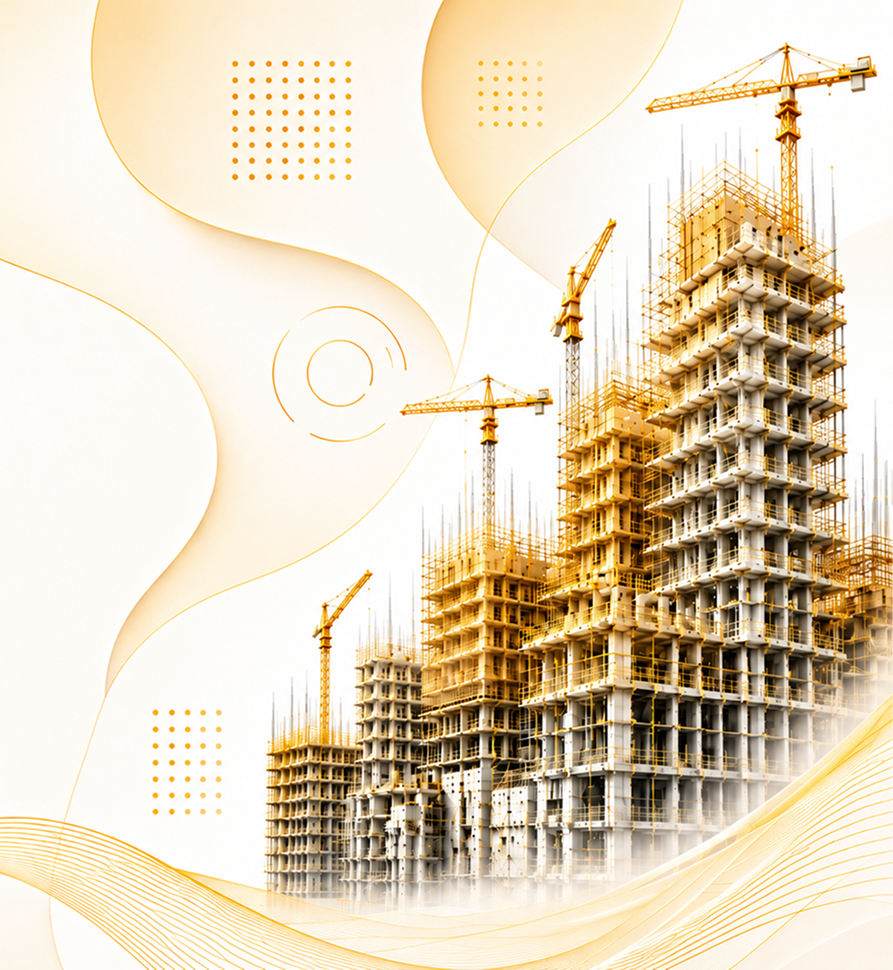
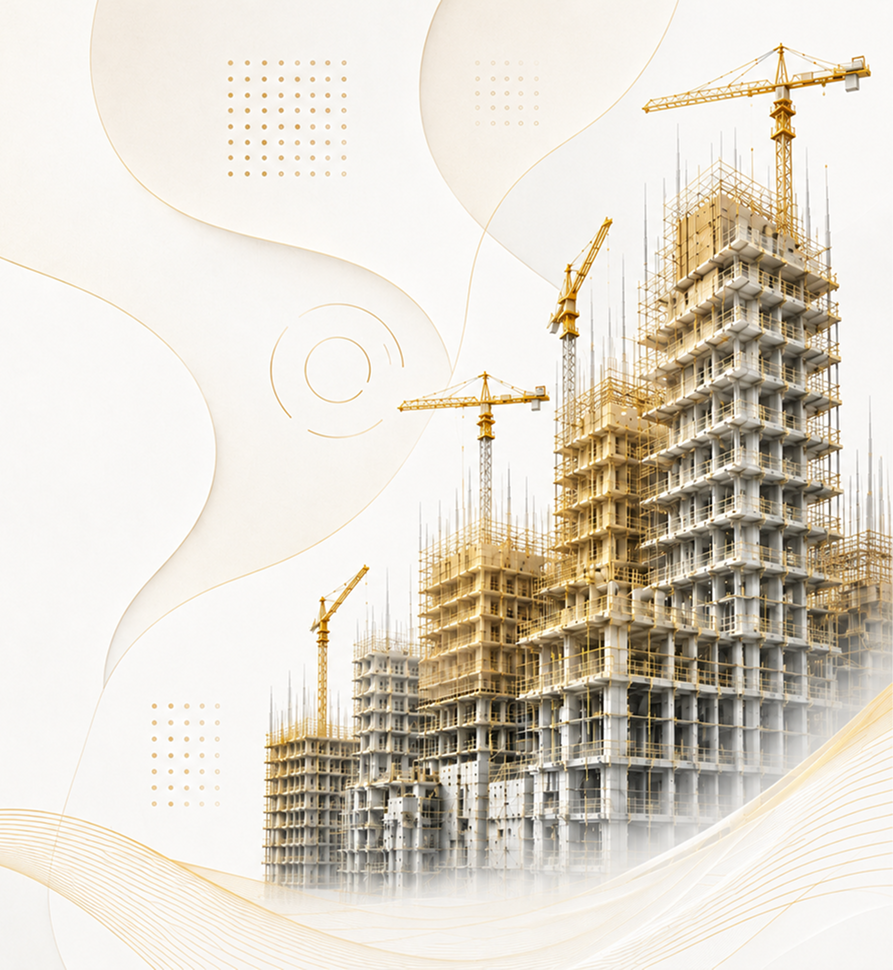
feat(auth): refine themed layout and add auth translations

diff --git a/src/components/layout/auth-shell/auth-shell.module.scss b/src/components/layout/auth-shell/auth-shell.module.scss
@@ -99,7 +99,7 @@
     right: 0;
     bottom: 0;
     height: 100%;
-    border-left: 2px solid var(--accent);
+    border-left: 1px solid var(--border);
   }
 
   .background {
@@ -123,28 +123,52 @@
     opacity: 0;
   }
 
-  .productName,
-  .preferences {
+  .visualFooter {
     position: relative;
     z-index: 1;
+    display: flex;
+    width: 100%;
+    flex-wrap: wrap;
+    gap: space(4);
+    align-items: flex-end;
+    justify-content: space-between;
+    margin-top: auto;
   }
 
   .productName {
-    margin: 0;
-    color: var(--foreground);
-    font-size: clamp(rem(56), 5vw, rem(80));
-    font-weight: 600;
-    letter-spacing: var(--tracking-tight);
     align-self: flex-start;
+    padding: space(4);
+    background: color-mix(in srgb, var(--background) 10%, transparent);
+    backdrop-filter: blur(rem(6));
+    border: 1px solid var(--border);
+    border-radius: space(2);
+
+    h1 {
+      font-size: clamp(rem(30), 5vw, rem(32));
+      font-weight: 700;
+      text-transform: uppercase;
+      color: var(--primary);
+      letter-spacing: var(--tracking-tight);
+      line-height: 1;
+    }
+
+    h2 {
+      font-size: clamp(rem(30), 5vw, rem(32));
+      text-transform: uppercase;
+      font-weight: 600;
+      line-height: 1;
+    }
   }
+
 
   .preferences {
     align-self: flex-end;
-    justify-self: flex-end;
+    z-index: 1;
   }
 }
 
 :global(.dark) {
+
   .backgroundLight {
     opacity: 0;
   }

diff --git a/src/components/layout/auth-shell/index.tsx b/src/components/layout/auth-shell/index.tsx
@@ -13,8 +13,11 @@ interface AuthShellProps {
 }
 
 const AuthShell = async ({ children }: AuthShellProps) => {
-  const t = await getTranslations("common");
-  const brand = t("brand");
+  const [tCommon, tAuth] = await Promise.all([
+    getTranslations("common"),
+    getTranslations("auth.shell"),
+  ]);
+  const brand = tCommon("brand");
 
   return (
     <main className={styles.root}>
@@ -32,7 +35,10 @@ const AuthShell = async ({ children }: AuthShellProps) => {
           <img src="/auth/background-light.png" alt="" className={cn(styles.background, styles.backgroundLight)} />
           <img src="/auth/background-dark.png" alt="" className={cn(styles.background, styles.backgroundDark)} />
         </div>
-        <h1 className={styles.productName}>{brand}</h1>
+        <section className={styles.productName}>
+          <h1>{tAuth("title")}</h1>
+          <h2>{tAuth("description")}</h2>
+        </section>
         <AppPreferences className={styles.preferences} />
       </aside>
     </main>

diff --git a/src/i18n/request.ts b/src/i18n/request.ts
@@ -12,6 +12,7 @@ export default getRequestConfig(async ({ requestLocale }) => {
     locale,
     messages: {
       common: (await import(`../messages/${locale}/common.json`)).default,
+      auth: (await import(`../messages/${locale}/auth.json`)).default,
     },
   };
 });